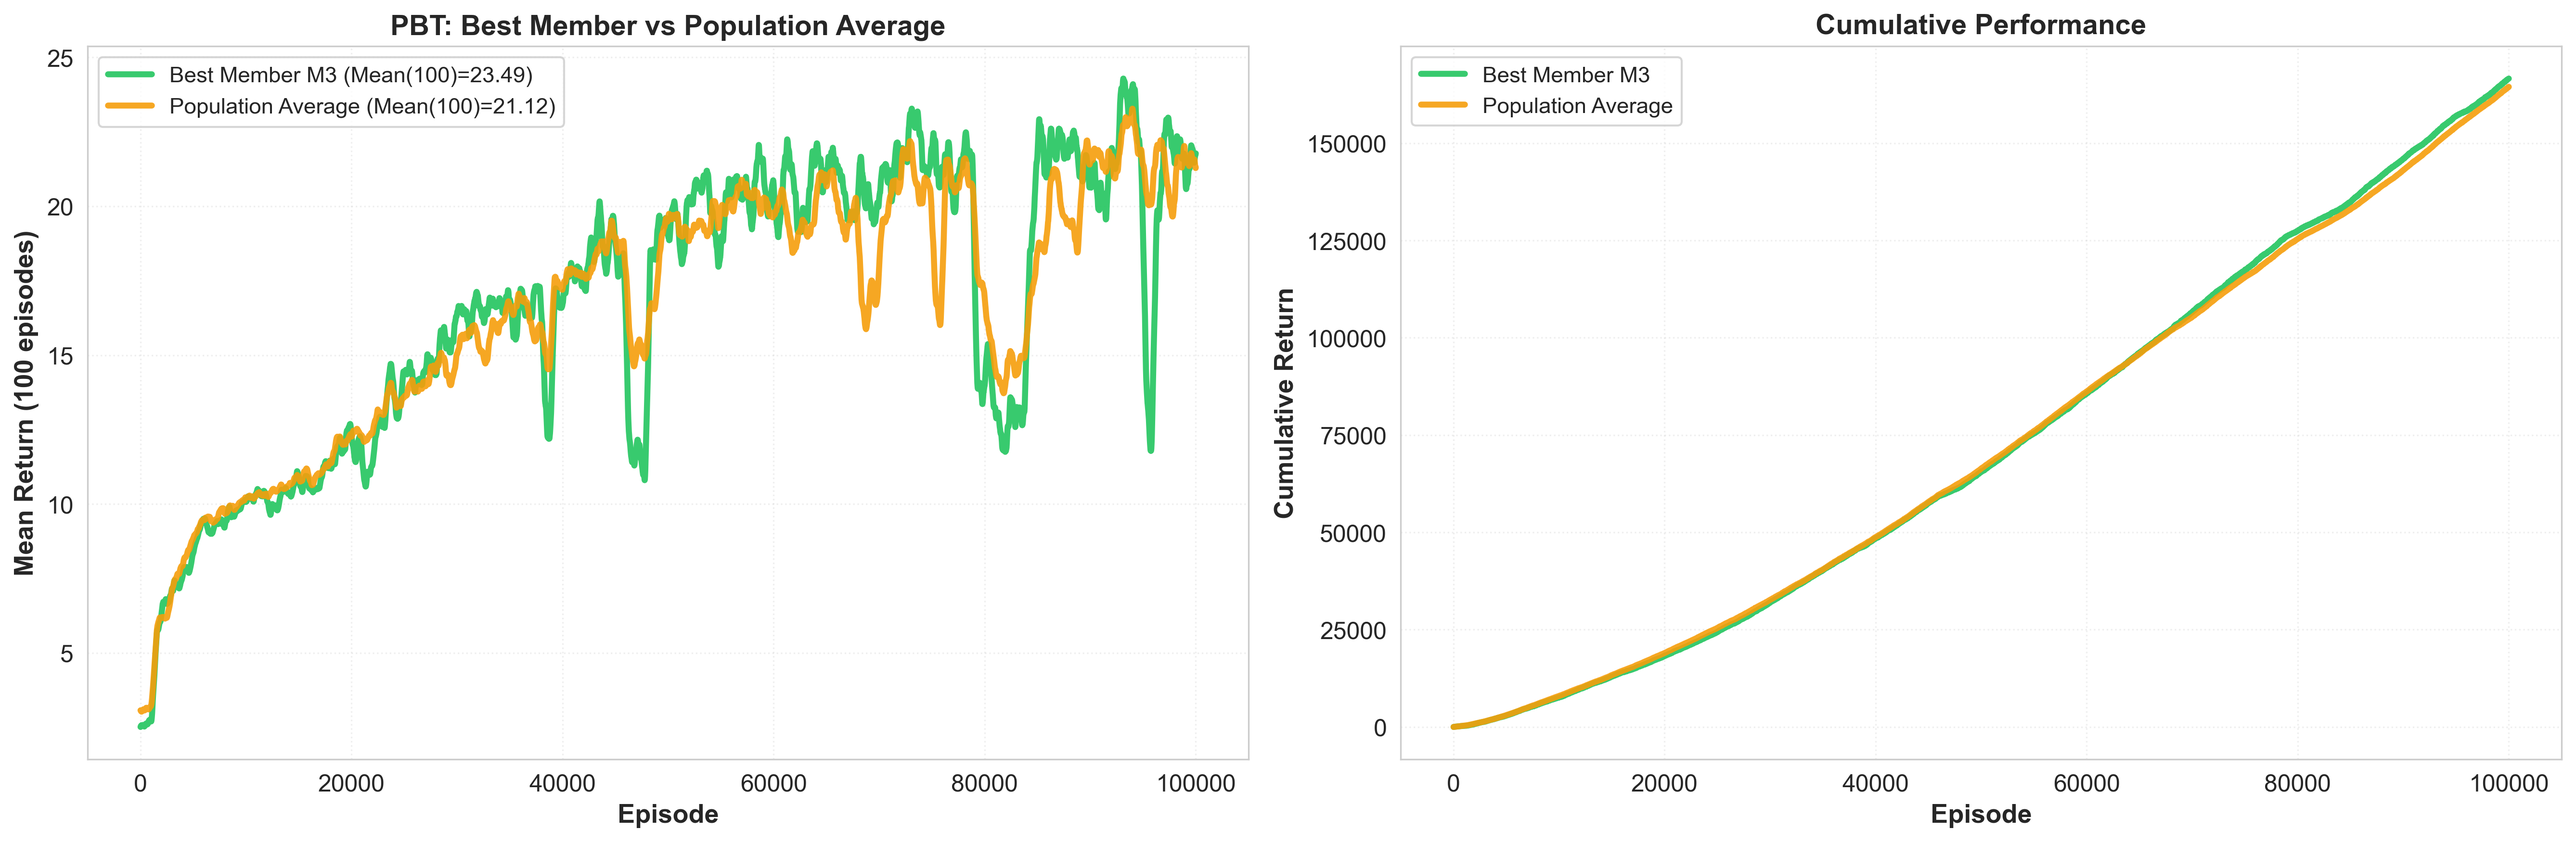
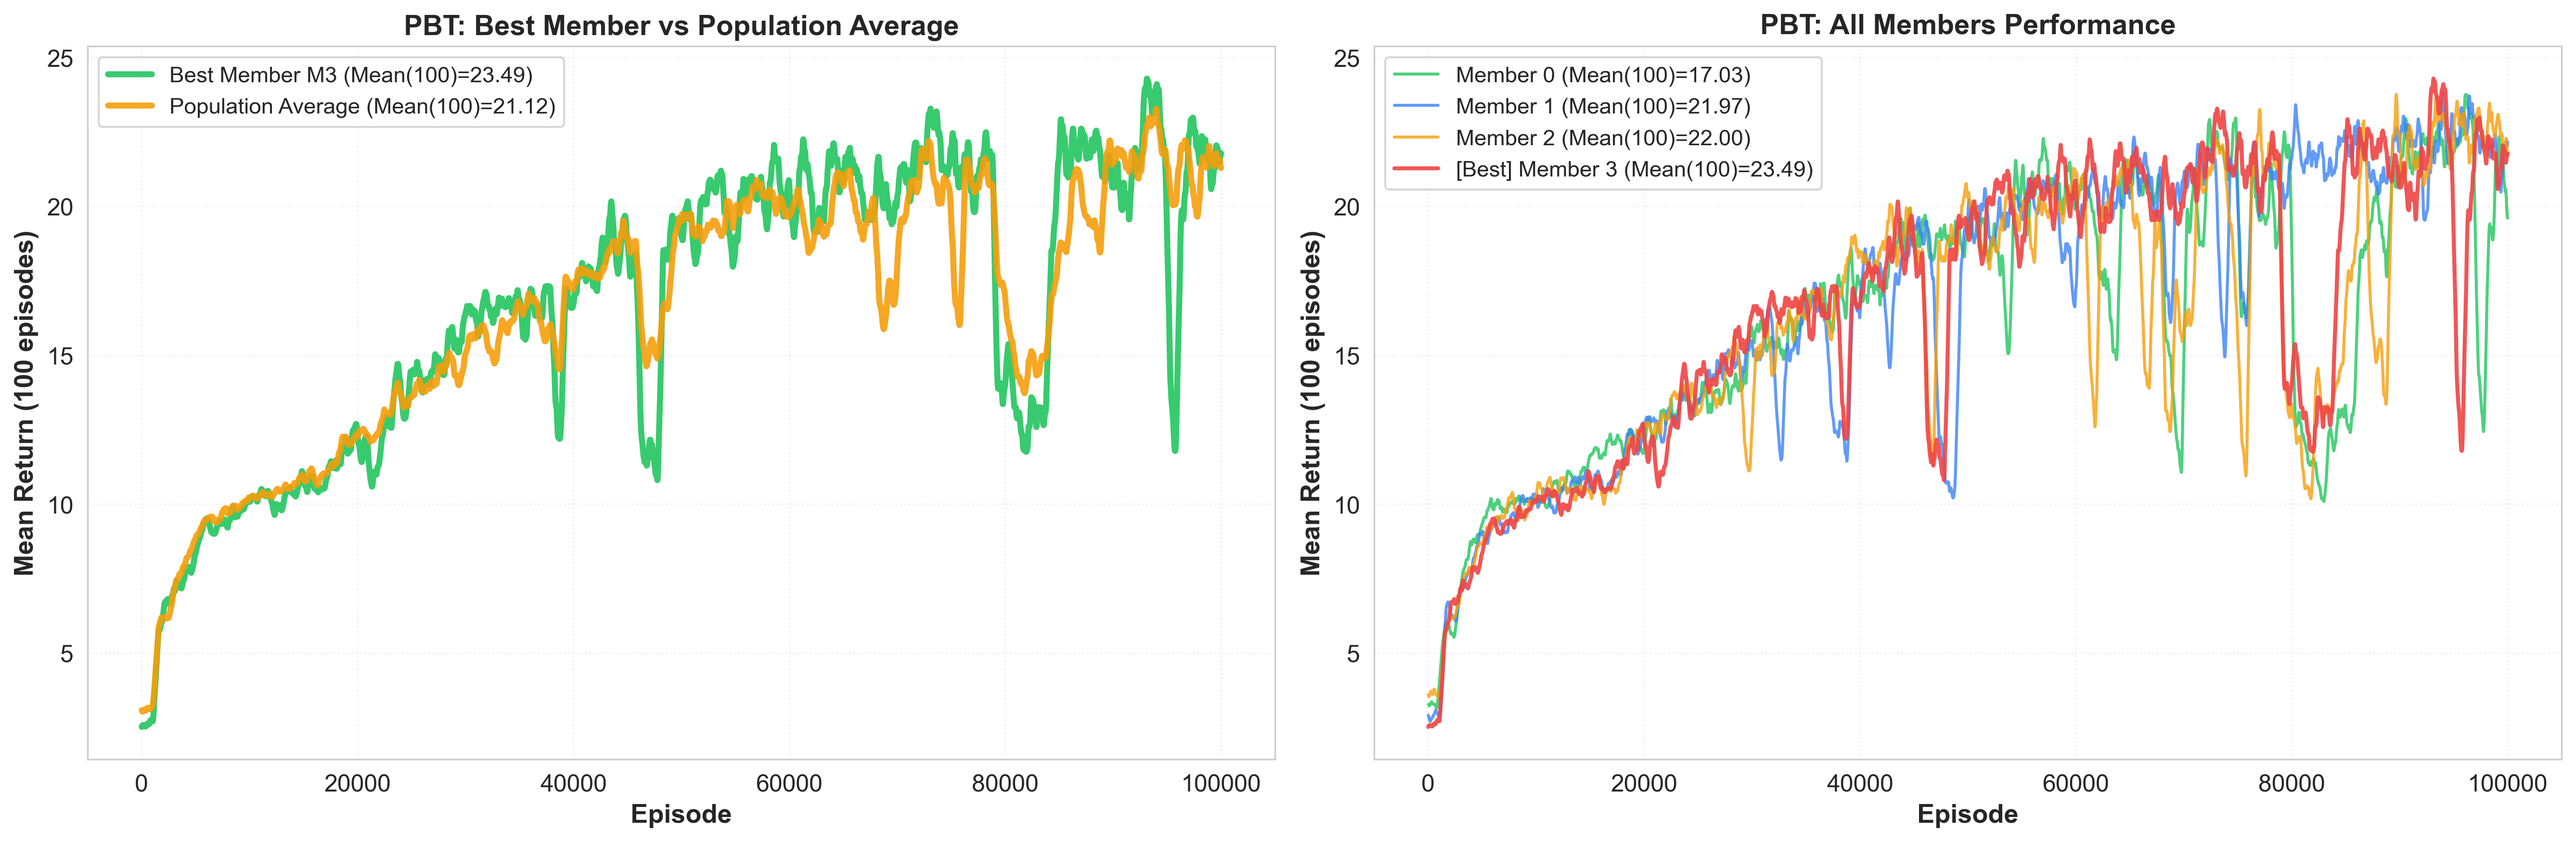
results updated

diff --git a/comprehensive_analysis.py b/comprehensive_analysis.py
@@ -238,22 +238,22 @@ def analyze_pbt_population(data):
     ax1.legend(fontsize=11, loc='best')
     ax1.grid(True, alpha=0.3, linestyle=':')
     
-    # Plot 2: Cumulative returns
+    # Plot 2: All 4 members' performance
     ax2 = axes[1]
     
-    best_cumulative = np.cumsum(best_pbt['episode_return'].iloc[:min_episodes_pbt].values)
-    avg_cumulative = np.cumsum(pbt_avg_episode_return.values)
+    member_colors = ['#22C55E', '#3B82F6', '#F59E0B', '#EF4444']  # Green, Blue, Orange, Red
     
-    ax2.plot(episodes, best_cumulative,
-            label=f'Best Member M{best_pbt_idx}',
-            color=COLORS['success'], linewidth=3, alpha=0.9)
-    ax2.plot(episodes, avg_cumulative,
-            label='Population Average',
-            color='#F59E0B', linewidth=3, alpha=0.9)
+    for idx, member in enumerate(pbt_members):
+        member_smooth = rolling_mean_for_plot(member['mean_return_100'].iloc[:min_episodes_pbt].values, window=50)
+        label_prefix = f'[Best] Member {idx}' if idx == best_pbt_idx else f'Member {idx}'
+        ax2.plot(episodes, member_smooth,
+                label=f'{label_prefix} (Mean(100)={member["mean_return_100"].iloc[:min_episodes_pbt].iloc[-1]:.2f})',
+                color=member_colors[idx], linewidth=2 if idx == best_pbt_idx else 1.5, 
+                alpha=0.9 if idx == best_pbt_idx else 0.8)
     
     ax2.set_xlabel('Episode', fontsize=13, fontweight='bold')
-    ax2.set_ylabel('Cumulative Return', fontsize=13, fontweight='bold')
-    ax2.set_title('Cumulative Performance', fontsize=14, fontweight='bold')
+    ax2.set_ylabel('Mean Return (100 episodes)', fontsize=13, fontweight='bold')
+    ax2.set_title('PBT: All Members Performance', fontsize=14, fontweight='bold')
     ax2.legend(fontsize=11, loc='best')
     ax2.grid(True, alpha=0.3, linestyle=':')
     
@@ -702,27 +702,6 @@ def analyze_pbt_hyperparameter_frequency(data):
         
         if param_name in ['learning_rate', 'gamma', 'sigma']:
             ax.tick_params(axis='x', rotation=45)
-    
-    # Summary statistics in bottom right
-    ax_summary = fig.add_subplot(gs[1, 2])
-    ax_summary.axis('off')
-    
-    summary_text = "Hyperparameter Duration Analysis\n"
-    summary_text += "="*40 + "\n\n"
-    summary_text += "Shows how long each parameter\n"
-    summary_text += "value was used before changing.\n\n"
-    summary_text += "Y-axis: Duration (# of episodes)\n"
-    summary_text += "the value was kept.\n\n"
-    summary_text += "Higher points = parameter value\n"
-    summary_text += "was kept longer (successful!).\n\n"
-    summary_text += "Low points = quickly changed\n"
-    summary_text += "(likely underperforming).\n\n"
-    summary_text += "This reveals which parameter\n"
-    summary_text += "values PBT deemed most effective."
-    
-    ax_summary.text(0.1, 0.5, summary_text, fontsize=10, 
-                   verticalalignment='center', family='monospace',
-                   bbox=dict(boxstyle='round', facecolor='wheat', alpha=0.3))
     
     plt.suptitle('PBT: Hyperparameter Value Usage Duration', fontsize=15, fontweight='bold', y=0.995)
     plt.savefig(PLOT_DIR / "6_pbt_hyperparameter_duration.png", bbox_inches='tight', dpi=300)
